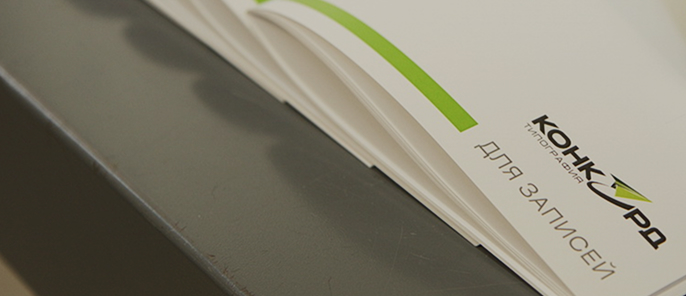
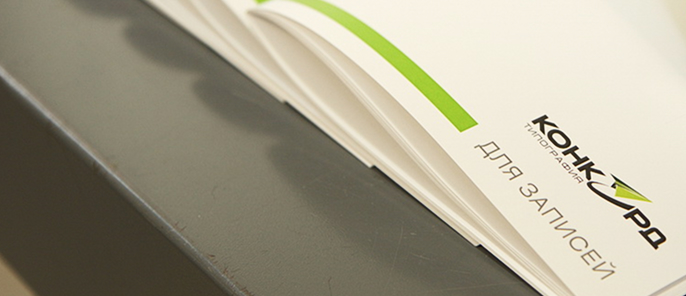
change header styles, change faq img, fix slider, fix other bugs

diff --git a/scss/section/_footer.scss b/scss/section/_footer.scss
@@ -76,12 +76,16 @@
       text-align: center;
     }
 
-    @include mobile {
+    @include tablet-md {
       font-weight: 800;
       text-transform: uppercase;
       color: var(--accent-green);
-      font-size: 12px;
+      font-size: 14px;
       letter-spacing: 0.2px;
+    }
+
+    @include mobile {
+      font-size: 12px;
     }
 
     @media (max-width: 425px) {
@@ -98,18 +102,23 @@
     background-color: var(--bg-dark-grey);
     color: var(--white);
 
-    @media (max-width: 1106px) {
-      padding: 24px;
-      grid-column: span 3;
-    }
-
-    @media (max-width: 1006px) {
+    @include desktop {
+      grid-column: span 5;
       margin-right: 0;
     }
 
-    @media (max-width: 900px) {
-      grid-column: span 5;
-    }
+    // @media (max-width: 1106px) {
+    //   padding: 24px;
+    //   grid-column: span 3;
+    // }
+
+    // @media (max-width: 1006px) {
+    //   margin-right: 0;
+    // }
+
+    // @media (max-width: 900px) {
+    //   grid-column: span 5;
+    // }
 
     @include tablet-md {
       margin-right: 0;
@@ -128,14 +137,23 @@
     gap: 2px;
     max-width: 231px;
 
-    @media (max-width: 1106px) {
-      grid-column: span 2;
-      max-width: unset;
+    @include desktop {
+      max-width: 100%;
+      flex-direction: row;
+      flex-wrap: nowrap;
+      gap: 4px 16px;
+      grid-column: span 5;
+      justify-content: space-between;
     }
 
-    @media (max-width: 1106px) {
-      margin-left: 20px;
-    }
+    // @media (max-width: 1106px) {
+    //   grid-column: span 2;
+    //   max-width: unset;
+    // }
+
+    // @media (max-width: 1106px) {
+    //   margin-left: 20px;
+    // }
 
     @media (max-width: 900px) {
       margin-left: 0;
@@ -146,6 +164,7 @@
 
     @include mobile {
       align-items: center;
+      flex-direction: column;
       display: flex;
     }
 

diff --git a/scss/section/_header.scss b/scss/section/_header.scss
@@ -33,9 +33,14 @@
       gap: 12px 8px;
     }
 
+    // @include tablet-md {
+    //   grid-template-columns: repeat(12, 1fr);
+    //   gap: 12px 4px;
+    // }
+
     @include tablet-md {
-      grid-template-columns: repeat(12, 1fr);
-      gap: 12px 4px;
+      display: flex;
+      gap: 4px;
     }
 
     @media (max-width: 400px) {
@@ -173,8 +178,12 @@
       grid-column: 8 / 16;
     }
 
+    // @include tablet-md {
+    //   grid-column: span 7;
+    // }
+
     @include tablet-md {
-      grid-column: span 7;
+      margin-left: 0;
     }
 
     @include mobile {
@@ -182,8 +191,12 @@
       grid-column: span 6;
     }
 
+    // @media (max-width: 510px) {
+    //   grid-column: span 10;
+    // }
+
     @media (max-width: 510px) {
-      grid-column: span 10;
+      flex: 1;
     }
 
     @media (max-width: 400px) {
@@ -192,6 +205,8 @@
 
     @include mobile-xs {
       order: 2;
+      margin-left: auto;
+      flex: unset;
     }
   }
 
@@ -209,6 +224,11 @@
     color: var(--white);
     background: var(--bg-dark-grey);
 
+    @media (max-width: 510px) {
+      flex: 1;
+      align-items: center;
+    }
+
     @media (max-width: 400px) {
       width: 156px;
     }
@@ -217,6 +237,7 @@
       width: 40px;
       height: 40px;
       padding: 0;
+      flex: unset;
     }
 
     &--email {
@@ -320,8 +341,12 @@
       text-align: right;
     }
 
+    // @include tablet-md {
+    //   grid-column: span 7;
+    // }
+
     @include tablet-md {
-      grid-column: span 7;
+      margin-left: auto;
     }
 
     @include mobile {
@@ -375,6 +400,10 @@
       grid-row: 2 / 3;
     }
 
+    @include tablet-md {
+      order: 7;
+    }
+
     @include mobile {
       width: 40px;
       height: 40px;
@@ -413,8 +442,18 @@
       grid-row: 2 / 3;
       width: 100%;
 
+      // @include tablet-md {
+      //   grid-column: span 4;
+      // }
+
       @include tablet-md {
-        grid-column: span 4;
+        width: auto;
+        flex-grow: 1;
+        order: 6;
+      }
+
+      @media (max-width: 510px) {
+        flex-grow: unset;
       }
 
       @include mobile {

diff --git a/scss/components/_cookie-notice.scss b/scss/components/_cookie-notice.scss
@@ -29,7 +29,7 @@
     --cookie-pb: 0;
   }
 
-  // display: none;
+  display: none;
   position: fixed;
   right: var(--cookie-pr);
   bottom: var(--cookie-pb);
@@ -39,8 +39,8 @@
   max-width: var(--cookie-width);
   color: var(--cookie-color);
   background-color: var(--cookie-bg);
-  // transform: translateY(100%);
-  // opacity: 0;
+  transform: translateY(100%);
+  opacity: 0;
   transition:
     opacity var(--transition-300),
     transform var(--transition-300);
@@ -84,6 +84,16 @@
       text-underline-offset: 2px;
       color: var(--cookie-link);
       cursor: pointer;
+      transition: color var(--transition-300);
+
+      &:hover {
+        color: var(--accent-dark-green);
+      }
+
+      &:hover {
+        outline: none;
+        color: var(--accent-dark-green);
+      }
     }
   }
 

diff --git a/scss/components/_card-employee.scss b/scss/components/_card-employee.scss
@@ -74,15 +74,22 @@
       display: flex;
       align-items: center;
       gap: 4px;
-      margin: 0 0 30px;
+      margin: 0 0 8px;
       font-weight: 400;
       font-size: 16px;
       line-height: 130%;
       color: var(--black);
       transition: color var(--transition-300);
 
+      &:last-child {
+         margin: 0 0 30px;
+
+         @include mobile {
+            margin: 0 0 16px;
+         }
+      }
+
       @include mobile {
-         margin: 0 0 16px;
          font-size: 12px;
       }
 

diff --git a/scss/config/_settings.scss b/scss/config/_settings.scss
@@ -45,7 +45,11 @@ a {
 
 .main {
   flex: 1 0 auto;
-  padding-top: 144px;
+  padding-top: 145px;
+
+  @include tablet-md {
+    padding-top: 152px;
+  }
 
   @include mobile {
     padding-top: 128px;

diff --git a/scss/section/_about.scss b/scss/section/_about.scss
@@ -123,9 +123,9 @@
 
    &__icon {
       position: absolute;
-      left: 4px;
+      left: 6px;
       top: 0;
-      width: 88px;
+      width: 90px;
       height: 57px;
 
       @include tablet-lg {
@@ -142,7 +142,7 @@
          top: auto;
          left: auto;
          bottom: 0;
-         right: 8px;
+         right: 10px;
          transform: rotate(180deg);
       }
    }

diff --git a/scss/section/_sec-slider.scss b/scss/section/_sec-slider.scss
@@ -192,10 +192,15 @@
   &__content {
     padding: 15px;
     margin: -15px;
+    visibility: hidden;
 
     @media (max-width: 359px) {
       padding: 0;
       margin: 0;
+    }
+
+    &.swiper-initialized {
+      visibility: visible;
     }
 
     & .swiper-slide {
@@ -204,3 +209,4 @@
     }
   }
 }
+

diff --git a/scss/components/_layout-catalog.scss b/scss/components/_layout-catalog.scss
@@ -14,6 +14,7 @@
          flex-direction: column;
          align-items: start;
          gap: 0;
+         margin: 0 0 8px;
       }
    }
 
@@ -22,10 +23,6 @@
 
       @include mobile {
          margin-bottom: 9px;
-      }
-
-      @include mobile-xs {
-         margin-bottom: 0;
       }
    }
 

diff --git a/scss/components/_messanges.scss b/scss/components/_messanges.scss
@@ -53,8 +53,10 @@
       width: var(--messanges-size-icon);
       height: var(--messanges-size-icon);
       user-select: none;
+    }
 
-      &--vk {
+    &--vk {
+      img {
         width: 22px;
         height: 14px;
       }

diff --git a/scss/components/_department.scss b/scss/components/_department.scss
@@ -9,7 +9,7 @@
    grid-column: 3 / 4;
    grid-row: 1 / 3;
 
-   @media (max-width: 1006px) {
+   @media (max-width: 1200px) {
       grid-column:  span 2;
       grid-row: 1 / 3;
    }